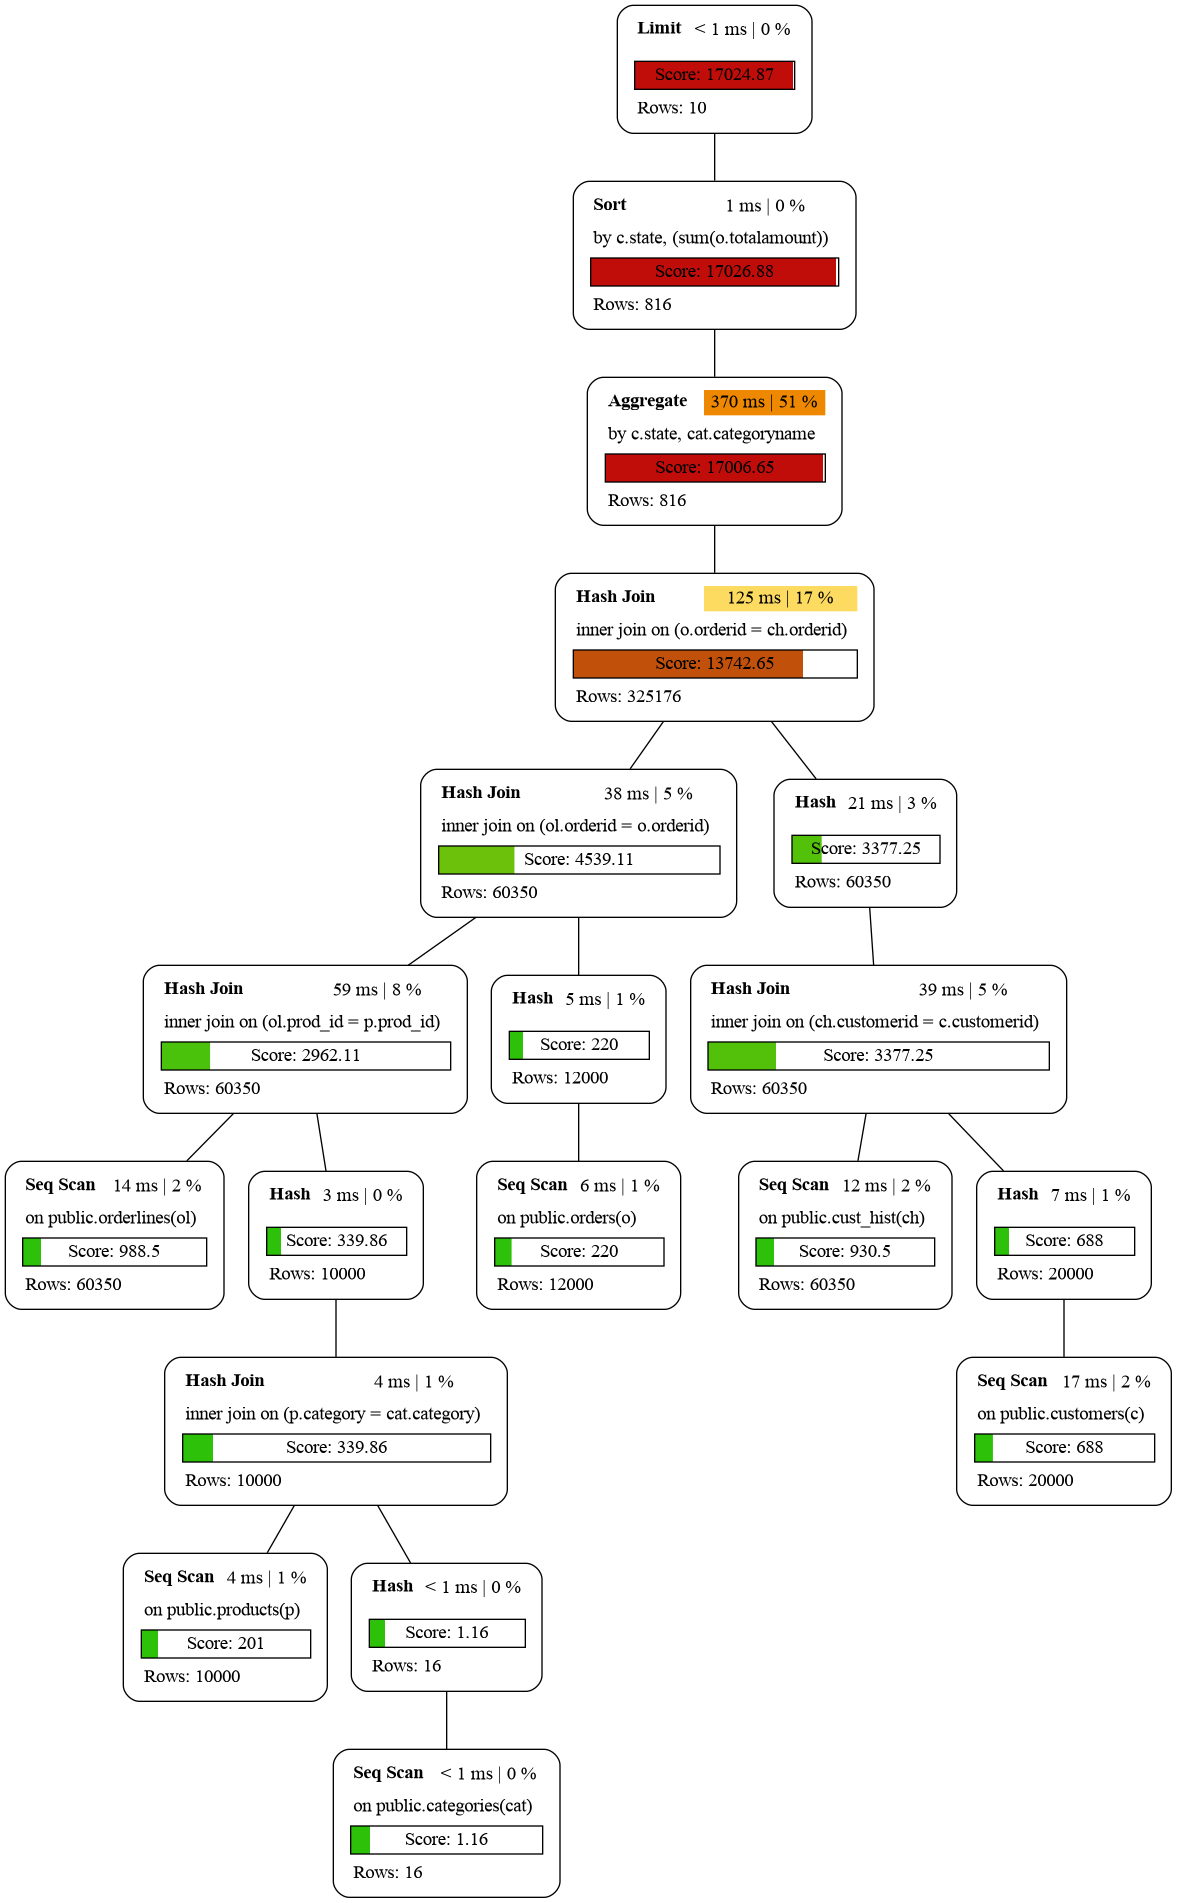
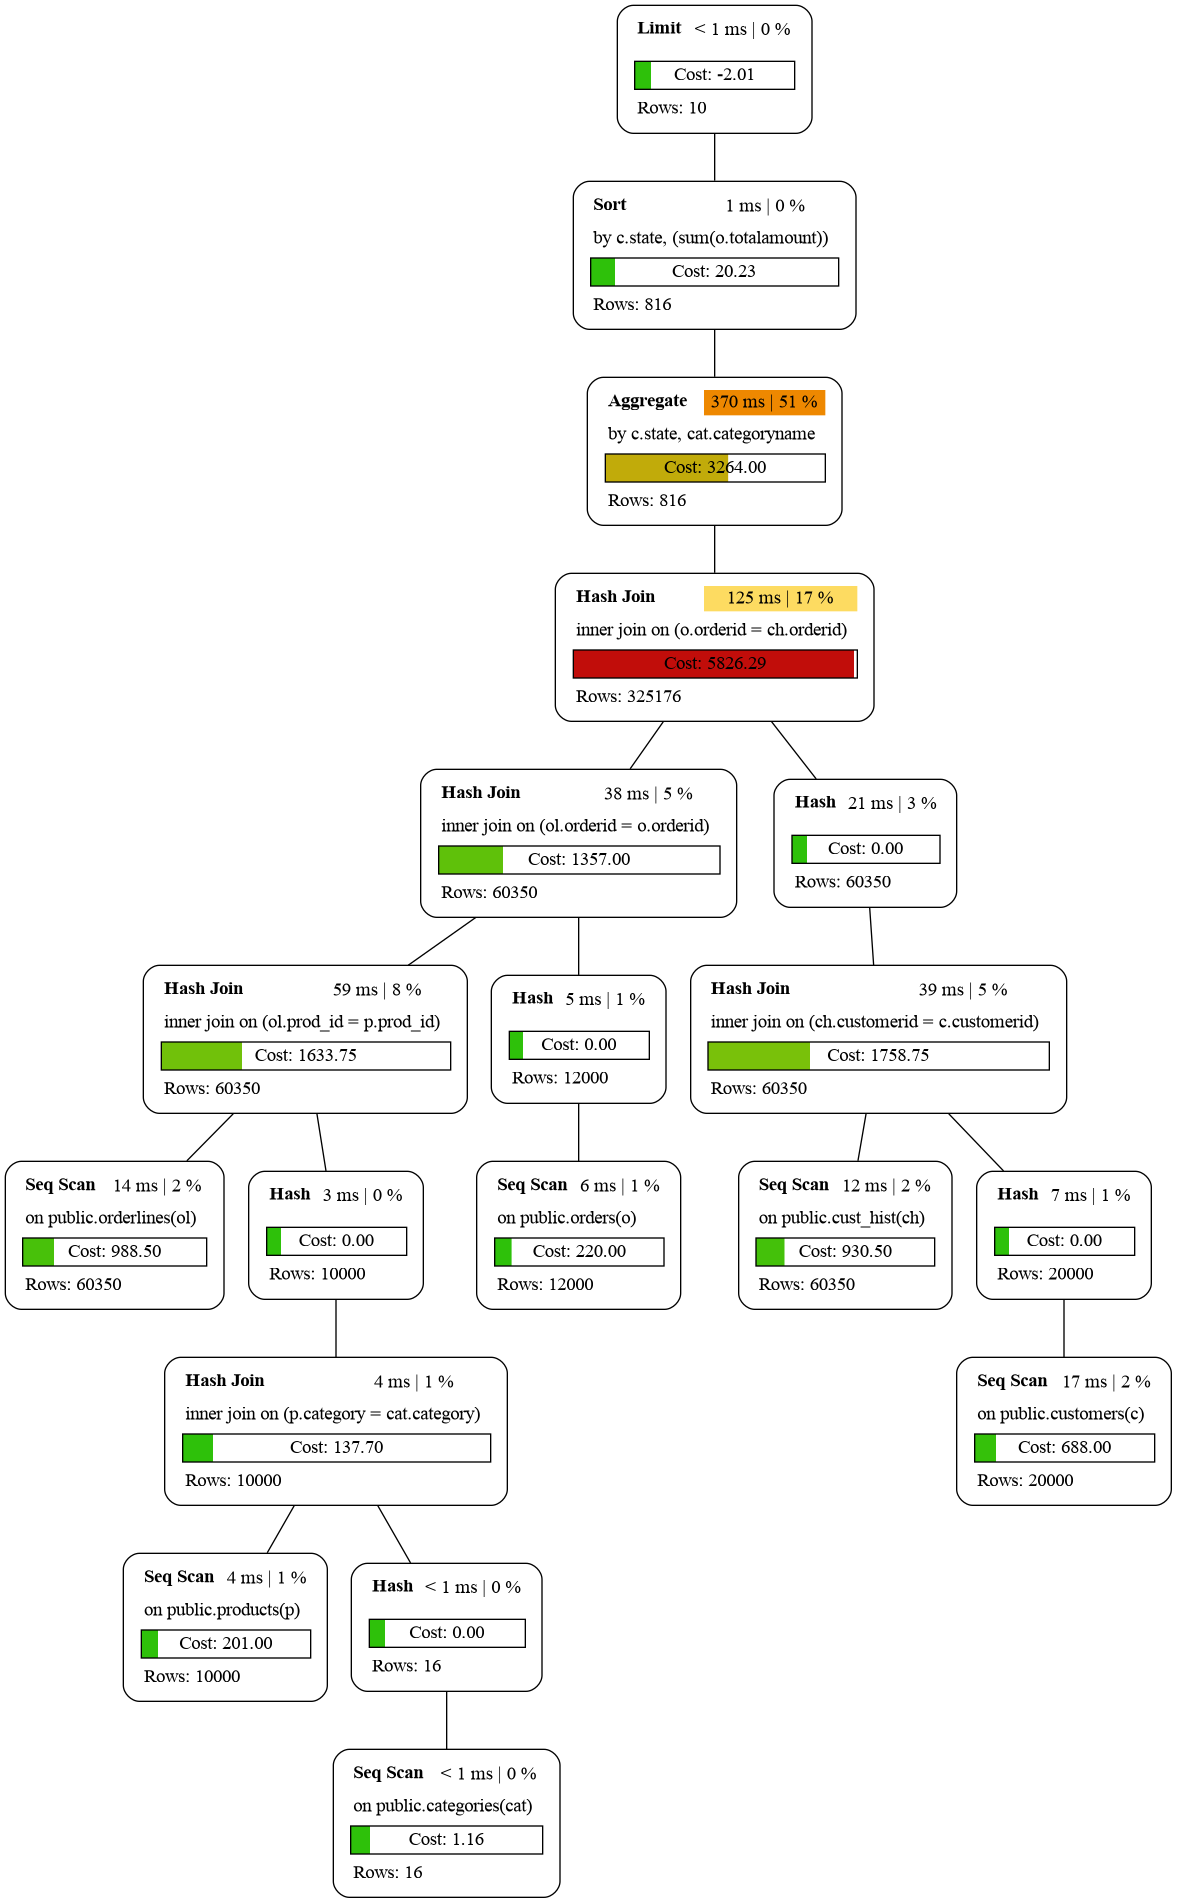
Displays relative costs

diff --git a/src/graph.rs b/src/graph.rs
@@ -9,6 +9,7 @@ struct Graph {
     nodes: Vec<Node>,
     edges: Vec<(usize, usize)>,
     current_id: usize,
+    max_cost: f32,
 }
 
 impl Graph {
@@ -17,6 +18,7 @@ impl Graph {
             nodes: Vec::new(),
             edges: Vec::new(),
             current_id: 0,
+            max_cost: 0.,
         }
     }
 
@@ -32,7 +34,12 @@ impl Graph {
         let id = self.current_id;
         self.current_id += 1;
 
-        self.nodes.push(Node::from(root, plan));
+        let node = Node::from(root, plan);
+        if node.cost > self.max_cost {
+            self.max_cost = node.cost;
+        }
+        self.nodes.push(node);
+
         if let Some(root_id) = root_id {
             self.edges.push((root_id, id));
         }
@@ -56,21 +63,19 @@ impl Graph {
 }
 
 struct Node {
-    color: String,
     n_workers: usize,
     info: String,
-    percent: f32,
     rows: u32,
     time: String,
     total_cost: f32,
+    cost: f32,
     ty: String,
 }
 
 impl Node {
     fn from(root: &crate::Plan, plan: &crate::Plan) -> Self {
         let info = info(&plan);
-        let percent = (plan.total_cost / root.total_cost).min(0.99).max(0.1);
-        let color = color(percent);
+        let cost = cost(&plan);
         let time = if let Some(time) = time(&plan) {
             let time_percent = (time / root.actual_total_time.unwrap() * 100.)
                 .round()
@@ -93,14 +98,13 @@ impl Node {
         };
 
         Self {
-            color,
             info,
             n_workers: plan.workers.len(),
-            percent,
             rows: plan.rows,
             time,
             total_cost: plan.total_cost,
             ty: plan.node.to_string(),
+            cost,
         }
     }
 }
@@ -116,6 +120,8 @@ impl<'a> dot::Labeller<'a, Nd, Ed<'a>> for Graph {
 
     fn node_label<'b>(&'b self, n: &Nd) -> dot::LabelText<'b> {
         let node = self.node(n).unwrap();
+        let percent = (node.cost / self.max_cost).min(0.99).max(0.1);
+        let color = color(percent);
 
         let mut label = format!(r#"<table border="0" cellborder="0" cellspacing="5">"#);
         label.push_str(&format!(
@@ -133,8 +139,8 @@ impl<'a> dot::Labeller<'a, Nd, Ed<'a>> for Graph {
             ));
         }
         label.push_str(&format!(
-            r#"<tr><td colspan="2" border="1" bgcolor="{};{:.2}:white">Score: {}</td></tr>"#,
-            node.color, node.percent, node.total_cost
+            r#"<tr><td colspan="2" border="1" bgcolor="{};{:.2}:white">Cost: {:.02}</td></tr>"#,
+            color, percent, node.cost
         ));
         label.push_str(&format!(
             r#"<tr><td colspan="2" align="left">Rows: {}</td></tr>"#,
@@ -279,4 +285,14 @@ fn time(plan: &crate::Plan) -> Option<f32> {
     } else {
         None
     }
+}
+
+fn cost(plan: &crate::Plan) -> f32 {
+    let mut cost = plan.total_cost;
+
+    for child in &plan.plans {
+        cost -= child.total_cost;
+    }
+
+    cost
 }
